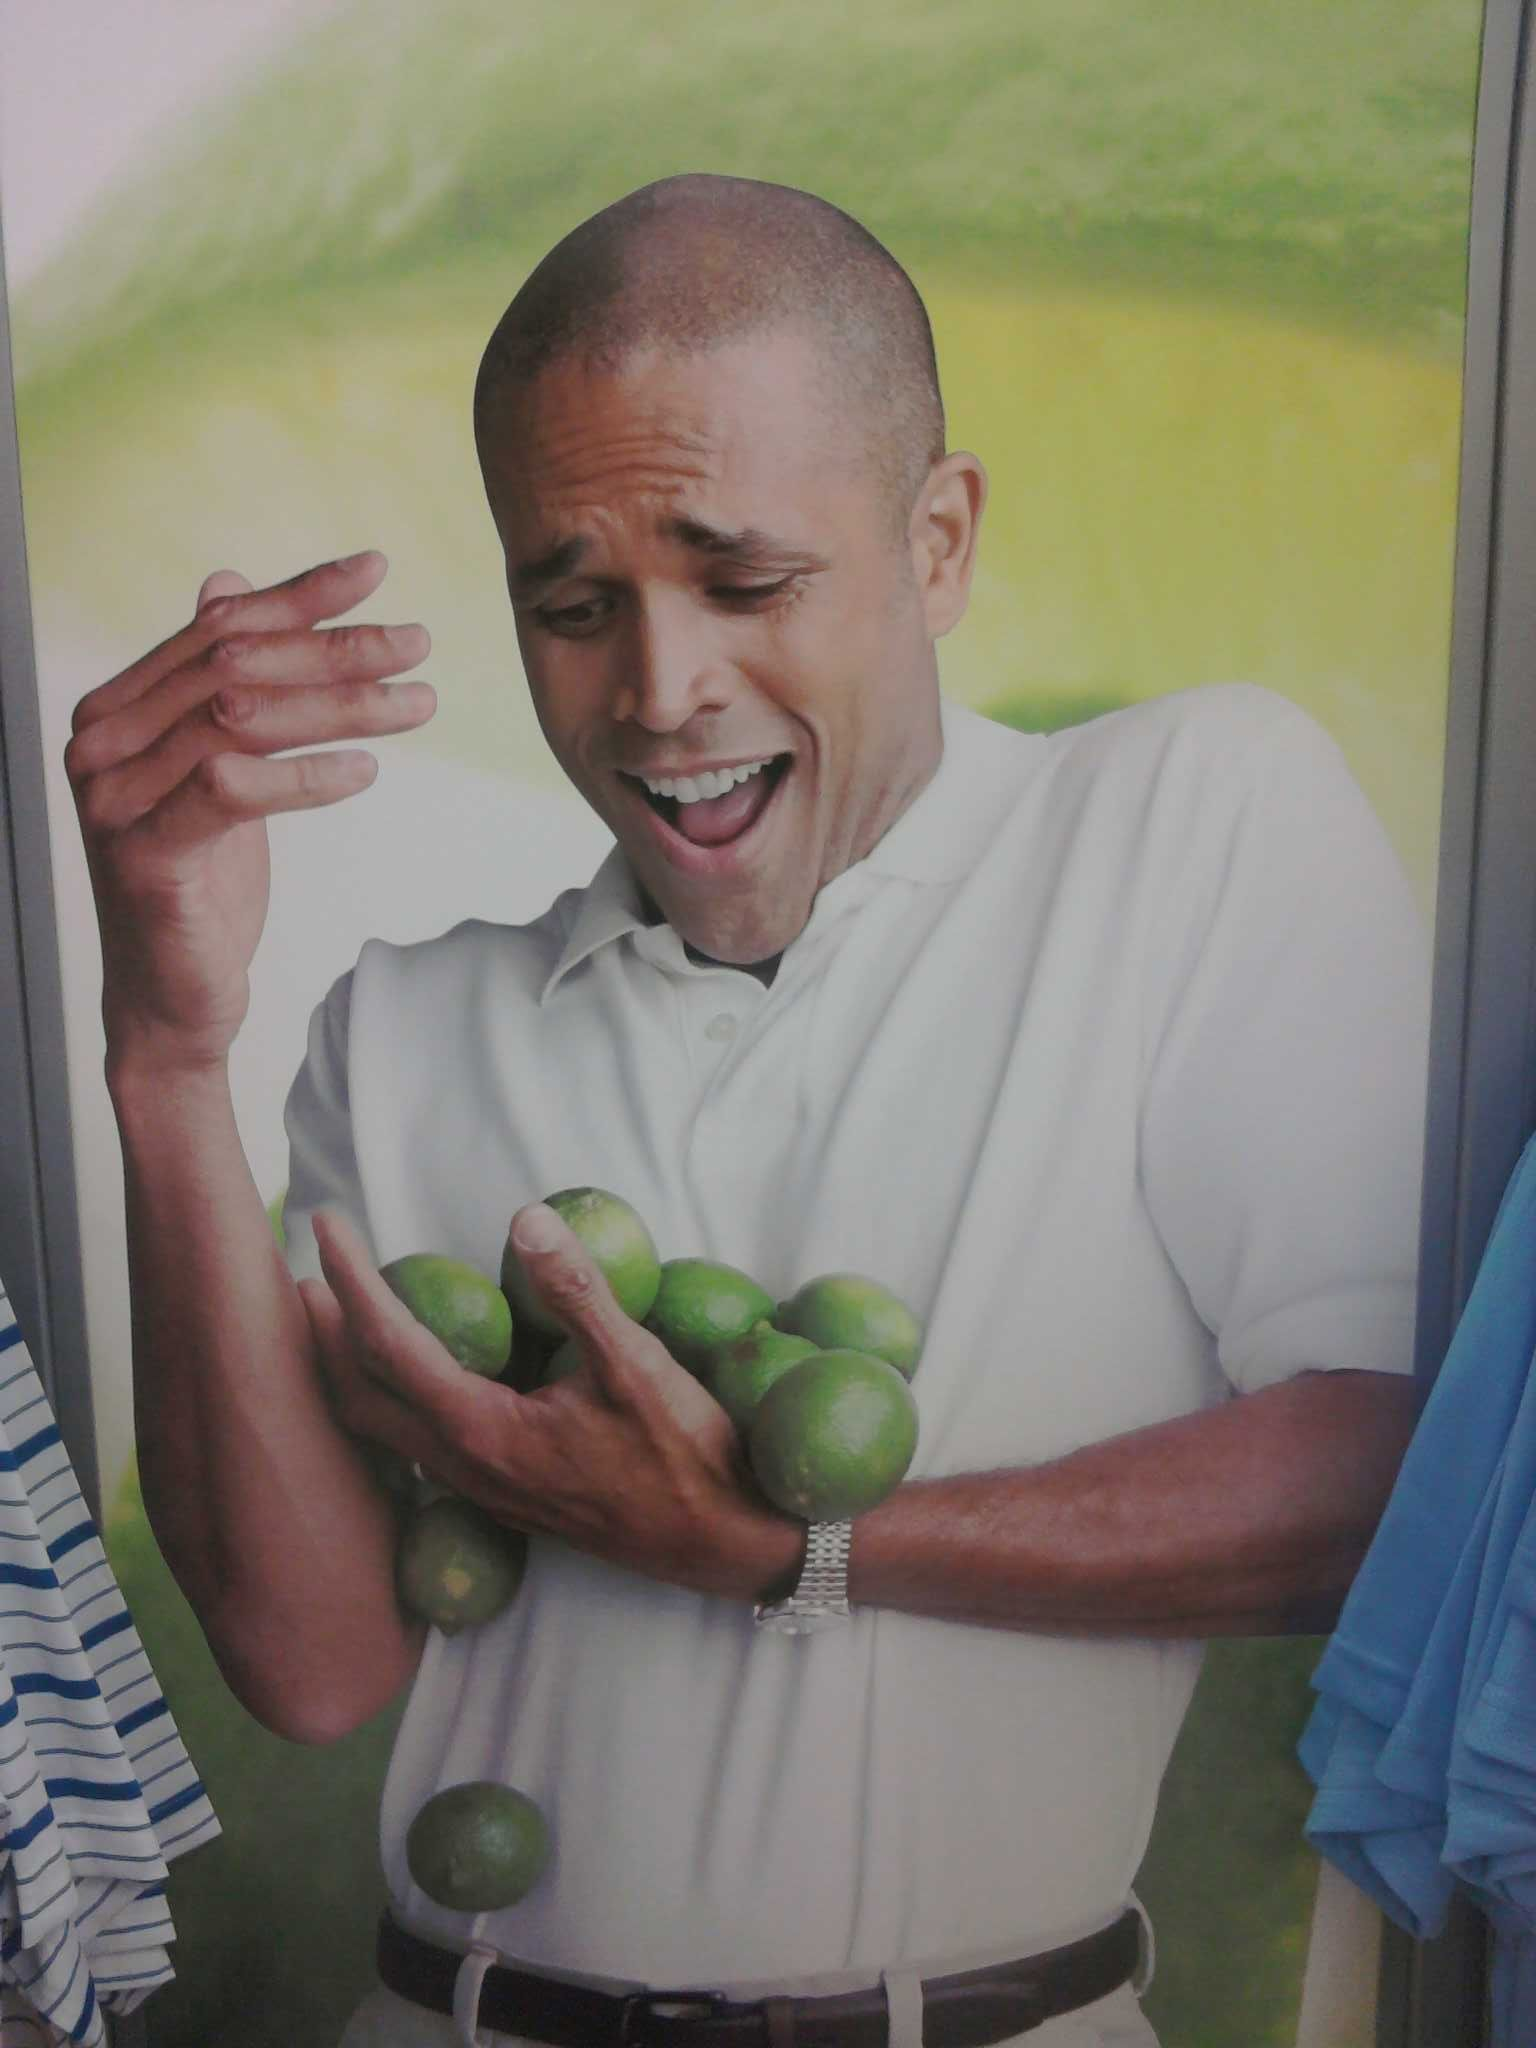
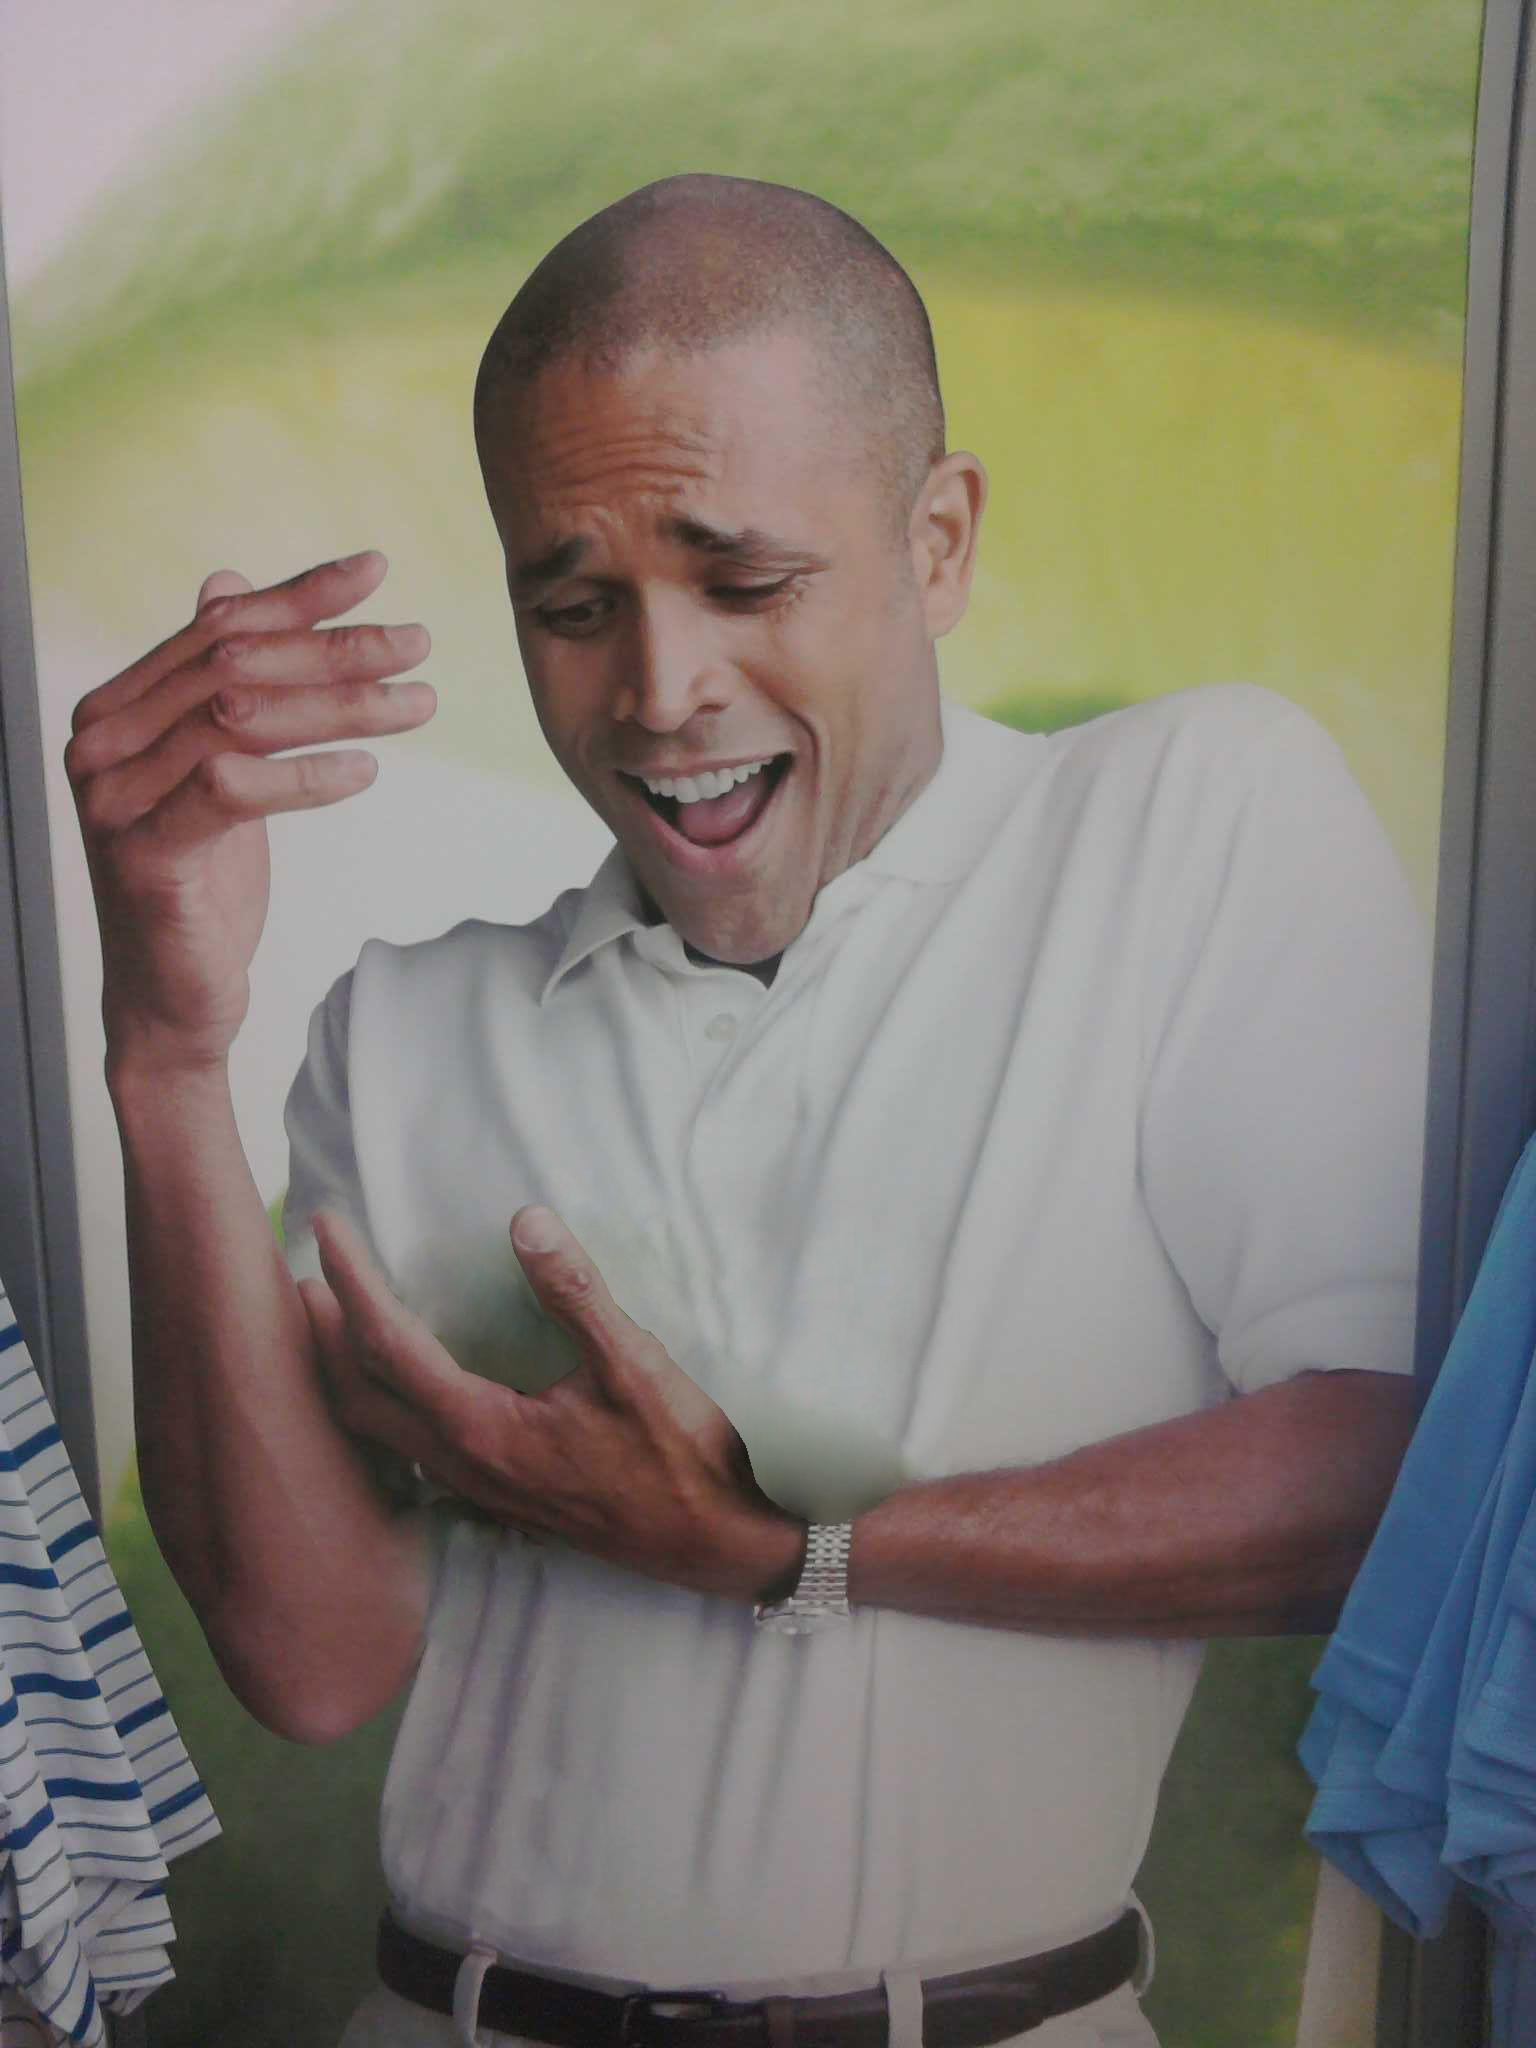
masking of objects

Changed region(s): [[0.25, 0.5625, 0.625, 0.75], [0.25, 0.875, 0.375, 0.9375], [0.25, 0.7188, 0.3438, 0.8125]]

diff --git a/src/limeguy.ts b/src/limeguy.ts
@@ -9,7 +9,6 @@ import getConceptImageUrls from "./images/get-concept-image-urls";
 import loadRemoteImage from "./images/load-remote-image";
 
 const staticDataDir = path.join(__dirname, "../data");
-const limeguyPath = path.join(staticDataDir, "limeguy.jpg");
 registerFont(path.join(staticDataDir, "impact.ttf"), { family: "Impact" });
 
 const outDir = tmpdir();
@@ -17,67 +16,59 @@ const outDir = tmpdir();
 let filenameIndex = 0;
 
 let originalLimeguy: ImageBitmap;
+let midgroundLimeguy: ImageBitmap;
+let foregroundLimeguy: ImageBitmap;
 
 const maxHeight = 800;
-
-// pixel coords, unscaled. order matters! roughly background-to-foreground
-const limeCoords = [
-  [856, 1336],
-  [700, 1324],
-  [456, 1568],
-  [436, 1312],
-  [588, 1264],
-  [468, 1856],
-  [828, 1440]
-];
-// also unscaled!
-const limeSize = 250;
 
 export async function makeLimeguy(): Promise<{
   filename: string;
   item: string;
 }> {
   if (!originalLimeguy) {
-    originalLimeguy = await loadImage(limeguyPath);
+    originalLimeguy = await loadImage(path.join(staticDataDir, "limeguy.jpg"));
+    midgroundLimeguy = await loadImage(
+      path.join(staticDataDir, "limeguy_midground.png")
+    );
+    foregroundLimeguy = await loadImage(
+      path.join(staticDataDir, "limeguy_foreground.png")
+    );
   }
-
-  const canvasAspect = originalLimeguy.width / originalLimeguy.height;
-
-  const canvas = createCanvas(maxHeight * canvasAspect, maxHeight);
-  const ctx = canvas.getContext("2d")!;
-
-  ctx.drawImage(originalLimeguy, 0, 0, maxHeight * canvasAspect, maxHeight);
 
   const scale = maxHeight / originalLimeguy.height;
 
-  const adjustedCoords = limeCoords.map(([x, y]) => [x * scale, y * scale]);
-  const size = limeSize * scale;
+  // pixel coords, unscaled. order matters! roughly background-to-foreground
+  const backgroundLimes = [
+    [856, 1336],
+    [700, 1324],
+    [436, 1312],
+    [588, 1264]
+  ].map(([x, y]) => [x * scale, y * scale]);
+  // prettier-ignore
+  const midgroundLimes = [
+    [456, 1568]
+  ].map(([x, y]) => [x * scale, y * scale]);
+  // prettier-ignore
+  const foregroundLimes = [
+    [468, 1856],
+    [828, 1440]
+  ].map(([x, y]) => [x * scale, y * scale]);
 
-  const { item, images } = await getConceptImageUrls(limeCoords.length);
+  const size = 250 * scale;
+
+  const canvasAspect = originalLimeguy.width / originalLimeguy.height;
+  const canvas = createCanvas(maxHeight * canvasAspect, maxHeight);
+  const ctx = canvas.getContext("2d")!;
+
+  const { item, images } = await getConceptImageUrls(backgroundLimes.length);
 
   let imgIndex = 0;
-  for (const [limeX, limeY] of adjustedCoords) {
-    let didDraw = false;
-    while (!didDraw && imgIndex < images.length) {
-      try {
-        const image = await loadRemoteImage(images[imgIndex]);
-        const aspect = image.width / image.height;
-        ctx.drawImage(
-          image,
-          limeX - (size * aspect) / 2,
-          limeY - size / 2,
-          size * aspect,
-          size
-        );
-        didDraw = true;
-      } catch (e) {
-        // We don't care about (most) failures. Just retry with another URL.
-        // Checking for real, persistent errors is I guess TODO.
-        // console.warn(`can't load url: ${images[imgIndex]}:\n[${e}]\n`);
-      }
-      imgIndex++;
-    }
-  }
+  ctx.drawImage(originalLimeguy, 0, 0, maxHeight * canvasAspect, maxHeight);
+  await drawImages(backgroundLimes);
+  ctx.drawImage(midgroundLimeguy, 0, 0, maxHeight * canvasAspect, maxHeight);
+  await drawImages(midgroundLimes);
+  ctx.drawImage(foregroundLimeguy, 0, 0, maxHeight * canvasAspect, maxHeight);
+  await drawImages(foregroundLimes);
 
   ctx.font = "80px Impact";
   ctx.fillStyle = "#fff";
@@ -94,8 +85,13 @@ export async function makeLimeguy(): Promise<{
   ctx.font = "50px Impact";
   ctx.textBaseline = "bottom";
 
-  if (ctx.measureText(bottomText).width > canvas.width) {
-    // shrink the font size if we're too wide
+  // shrink the font size if we're too wide.
+  // we add a few characters of padding to try to compensate for node-canvas'
+  // buggy discrepancies between fillText and strokeText.
+  // note that shrinking the text may not be necessary in the first place with a
+  // real canvas -- the latter has a "maxWidth" parameter when drawing text, but
+  // it's broken in node-canvas.
+  if (ctx.measureText(bottomText + "xx").width > canvas.width) {
     ctx.lineWidth = 1;
     ctx.font = "30px Impact";
   }
@@ -124,4 +120,29 @@ export async function makeLimeguy(): Promise<{
     outStream.on("finish", () => res({ filename, item }));
     outStream.on("error", e => rej(e));
   });
+
+  async function drawImages(coordSet: number[][]) {
+    for (const [limeX, limeY] of coordSet) {
+      let didDraw = false;
+      while (!didDraw && imgIndex < images.length) {
+        try {
+          const image = await loadRemoteImage(images[imgIndex]);
+          const aspect = image.width / image.height;
+          ctx.drawImage(
+            image,
+            limeX - (size * aspect) / 2,
+            limeY - size / 2,
+            size * aspect,
+            size
+          );
+          didDraw = true;
+        } catch (e) {
+          // We don't care about (most) failures. Just retry with another URL.
+          // Checking for real, persistent errors is I guess TODO.
+          // console.warn(`can't load url: ${images[imgIndex]}:\n[${e}]\n`);
+        }
+        imgIndex++;
+      }
+    }
+  }
 }

diff --git a/src/main.ts b/src/main.ts
@@ -36,8 +36,9 @@ const argv = process.argv.slice(2);
 if (argv.includes("local")) {
   const localJob = () =>
     makeLimeguy().then(async ({ filename, item }) => {
-      console.log(`why cant I, hold all these ${pluralize(item)}?`);
-      console.log(filename, "\n");
+      console.log(
+        `why cant I, hold all these ${pluralize(item)}? file://${filename}\n`
+      );
       if (!argv.includes("once")) {
         setTimeout(localJob, 5000);
       }
